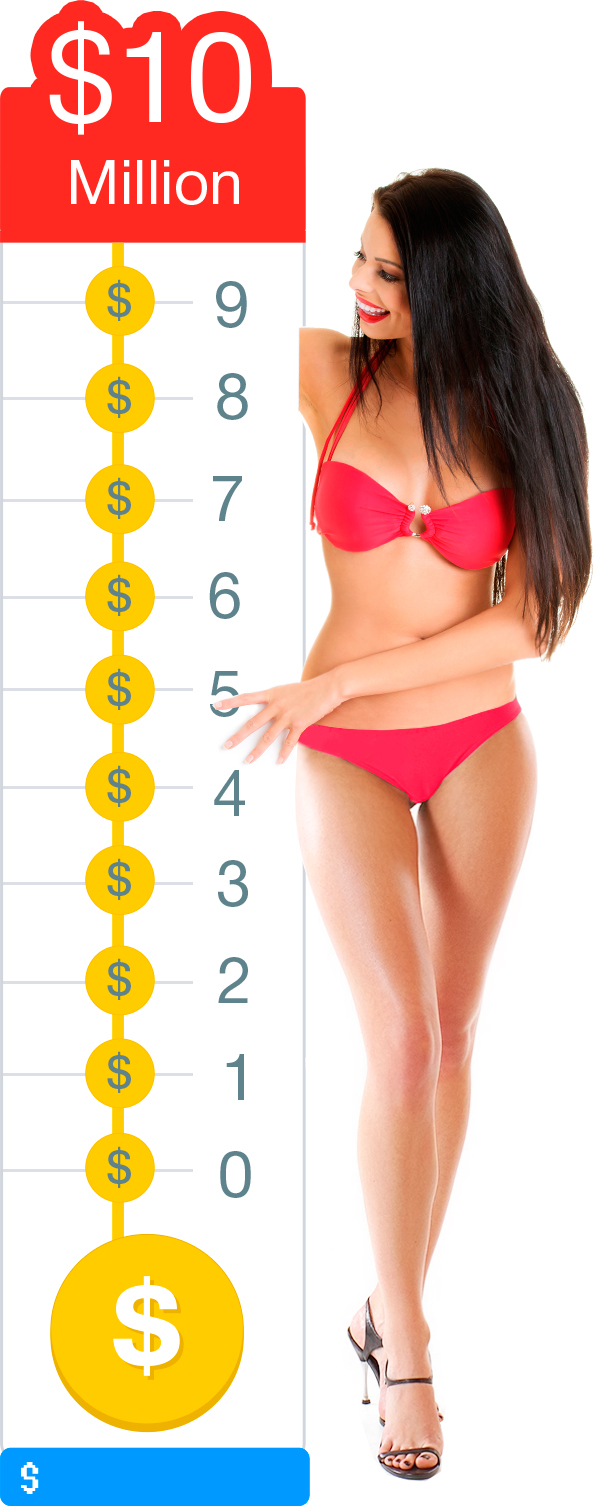
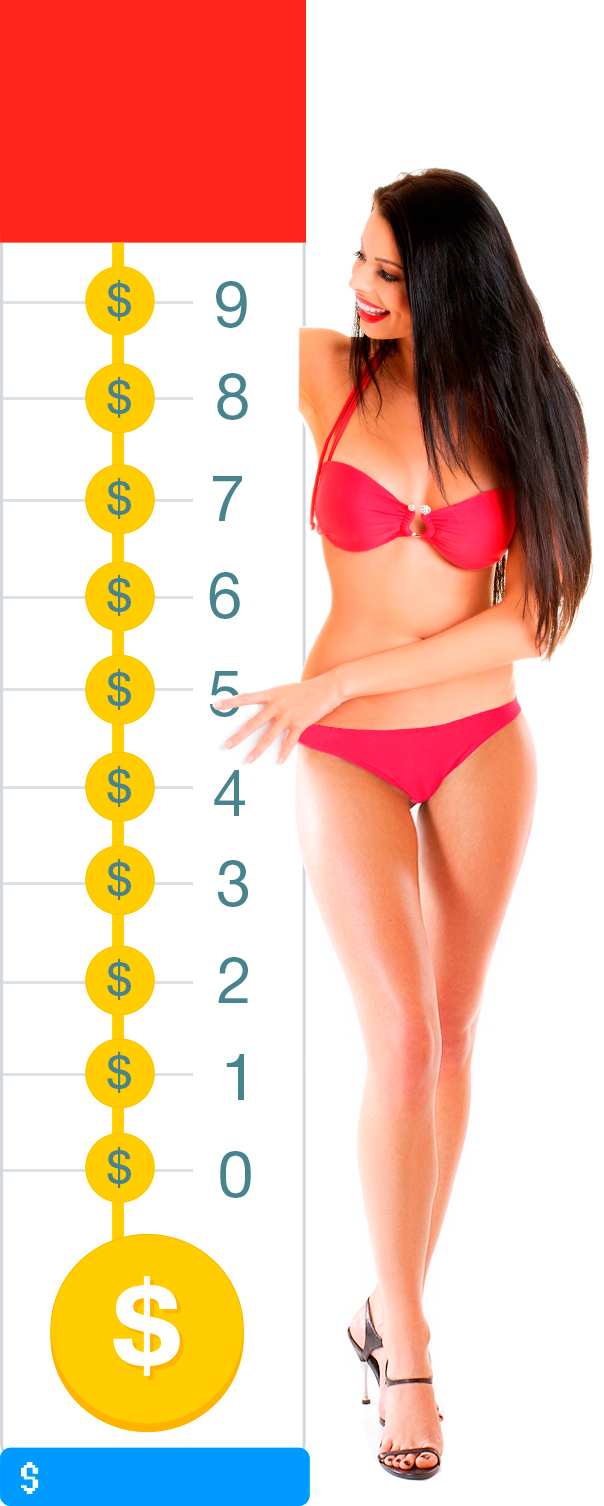
single-review

diff --git a/css/main.css b/css/main.css
@@ -2472,10 +2472,10 @@ button.estimate__dislike{
     text-align: center;
     padding: 16px 0 0;
 }
-.packages__rate span{
+.packages__rate>span{
     display: block;
 }
-.packages__rate span:first-child{
+.packages__rate>span:first-child{
     color: #dc2d26;
     margin: 0 0 12px;
 }
@@ -2490,6 +2490,24 @@ button.estimate__dislike{
     padding: 624px 122px 0 23px;
     text-align: left;
     margin: 0 auto 33px;
+    position: relative;
+}
+.packages__rate>div>span{
+    position: absolute;
+    top: 8px;
+    left: 20px;
+    color: #fff;
+    font-size: 54px;
+    line-height: 54px;
+    font-family: "helvetica-regular", sans-serif;
+    width: 90px;
+}
+.packages__rate>div>span>span{
+    display: block;
+    font-size: 26px;
+    line-height: 34px;
+    text-transform: none;
+    padding: 0 0 0 10px;
 }
 /* --------------- /packages --------------- */
 
@@ -4151,6 +4169,18 @@ button.estimate__dislike{
         padding: 731px 142px 0 24px;
         margin: 0 0 20px 18px;
     }
+    .packages__rate>div>span{
+        top: 8px;
+        left: 22px;
+        font-size: 63px;
+        line-height: 63px;
+        width: 116px;
+    }
+    .packages__rate>div>span>span {
+        font-size: 31px;
+        line-height: 43px;
+        padding: 0 0 0 10px;
+    }
     /* --------------- /packages --------------- */
 
     /* --------------- latest-bonuses --------------- */
@@ -4994,6 +5024,20 @@ button.estimate__dislike{
         line-height: 9px;
         padding: 364px 72px 0 13px;
         margin: 0 0 8px 0;
+    }
+    .packages__rate>div>span {
+        top: 4px;
+        left: 11px;
+        font-size: 32px;
+        line-height: 32px;
+        width: 56px;
+    }
+    .packages__rate>div>span>span {
+        display: block;
+        font-size: 15px;
+        line-height: 20px;
+        text-transform: none;
+        padding: 0 0 0 5px;
     }
     /* --------------- /packages --------------- */
 

diff --git a/single-review.html b/single-review.html
@@ -602,7 +602,10 @@
                             casino
                             jackpot
                         </span>
-                        <div>13 430 424, 20</div>
+                        <div>
+                            <span>$10 <span>Million</span></span>
+                            13 430 424, 20
+                        </div>
                         <span>
                             Casino
                             gave up
